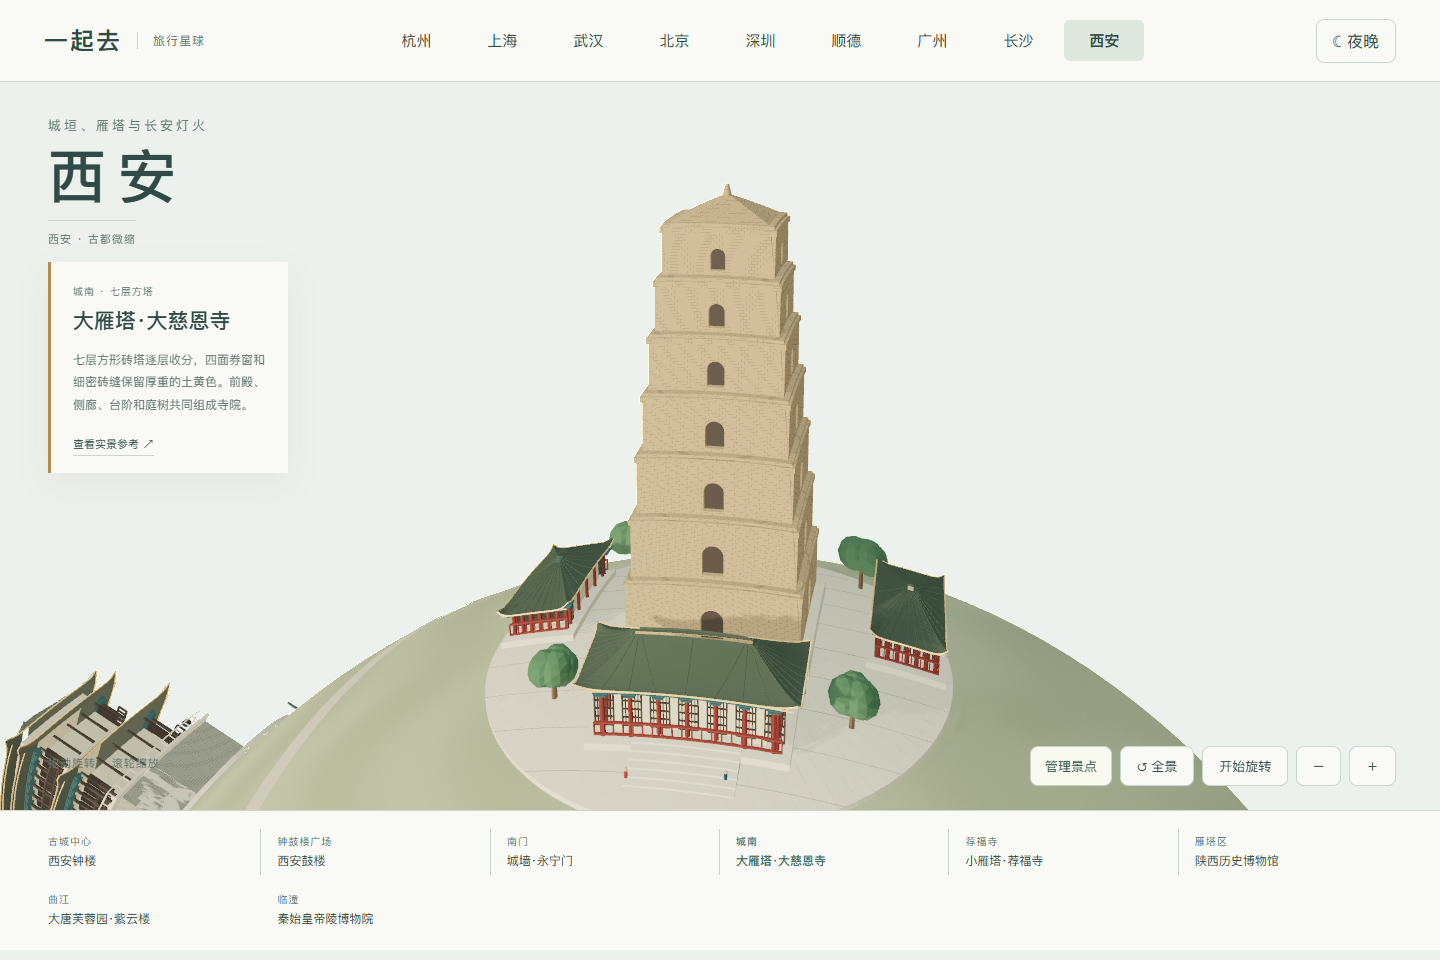
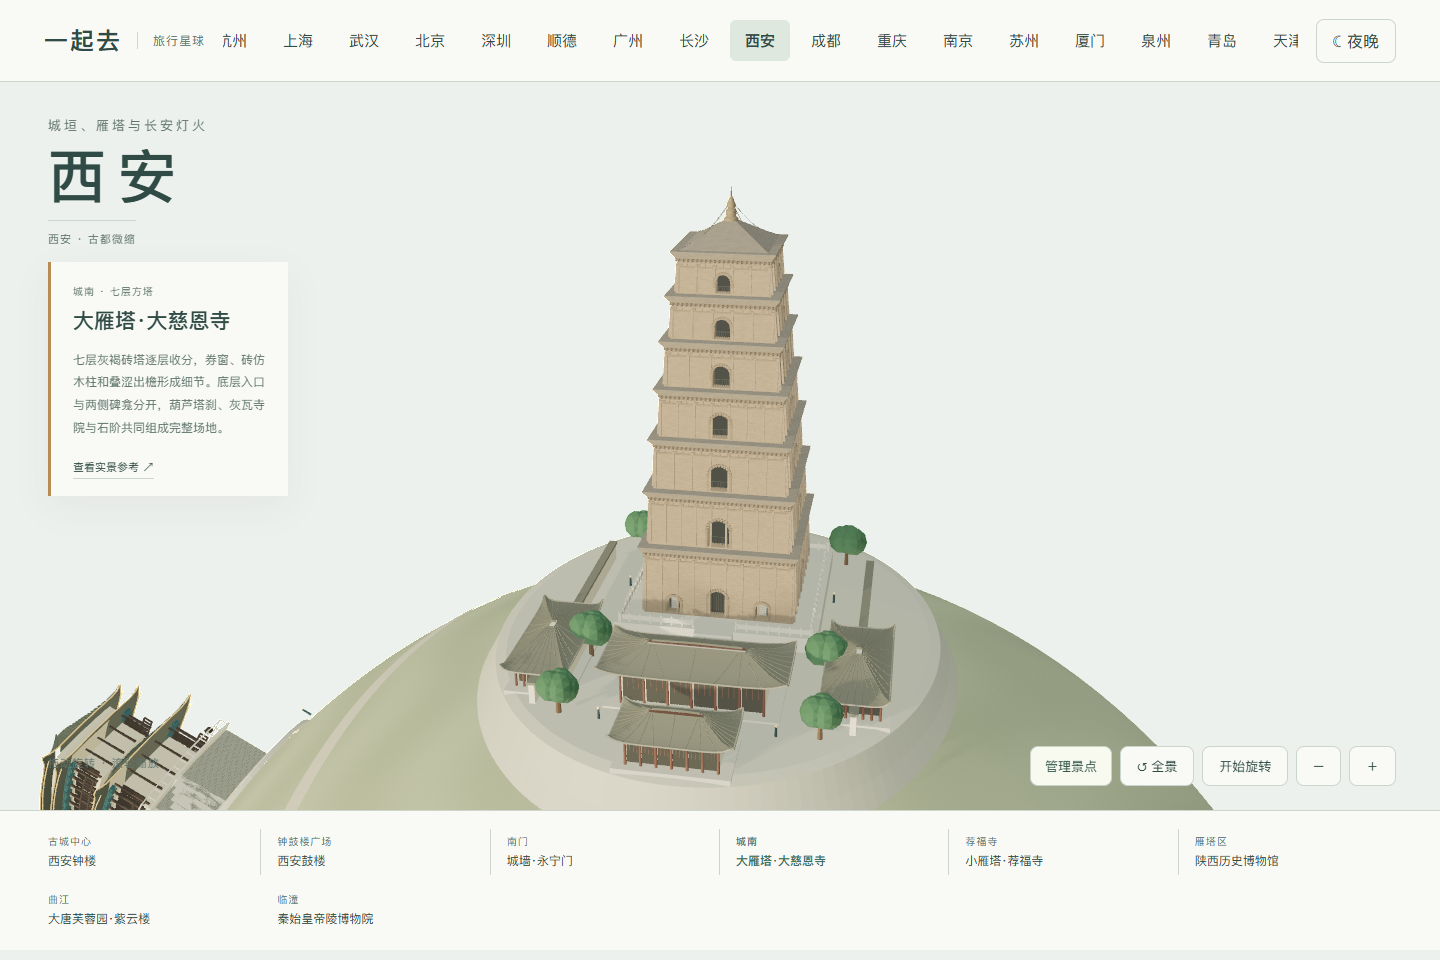
Refine Wild Goose Pagoda brickwork and preserve cloned night colors

diff --git a/web/xian-pagoda.js b/web/xian-pagoda.js
@@ -1,0 +1,113 @@
+import * as THREE from 'three';
+import {roof,tree} from './wuhan-architecture.js';
+import {bollards,people} from './shenzhen-forms.js';
+
+function brick(k,color){
+ const m=k.mat(color,.97,.02);m.onBeforeCompile=s=>{
+  s.vertexShader='varying vec3 pagodaBrick;\n'+s.vertexShader.replace('#include <begin_vertex>','#include <begin_vertex>\npagodaBrick=position;');
+  s.fragmentShader='varying vec3 pagodaBrick;\n'+s.fragmentShader.replace('#include <color_fragment>',`#include <color_fragment>
+   float row=floor(pagodaBrick.y*210.0);
+   vec2 cell=vec2((pagodaBrick.x+pagodaBrick.z)*85.0+mod(row,2.0)*.5,pagodaBrick.y*210.0);
+   vec2 uv=fract(cell), fw=max(fwidth(cell),vec2(.01));
+   float mortar=max(1.0-smoothstep(.035,.035+fw.y,uv.y),1.0-smoothstep(.025,.025+fw.x,uv.x));
+   float random=fract(sin(dot(floor(cell),vec2(127.1,311.7)))*43758.5453);
+   float weather=.5+.5*sin(pagodaBrick.x*22.0+pagodaBrick.z*11.0+sin(pagodaBrick.y*38.0));
+   float low=1.0-smoothstep(.08,.23,pagodaBrick.y+weather*.05);
+   diffuseColor.rgb*=mix(.94,1.02,random)*(1.0-.045*mortar);
+   diffuseColor.rgb=mix(diffuseColor.rgb,diffuseColor.rgb*vec3(.63,.69,.71),low*.65);`);
+ };m.customProgramCacheKey=()=> 'dayanta-brick-201';return m;
+}
+function foundation(k,g,m,w,d,top,x=0,z=0){
+ const geo=new THREE.BoxGeometry(w,top+.16,d,12,1,12),p=geo.attributes.position;
+ for(let i=0;i<p.count;i++){const xx=p.getX(i)+x,zz=p.getZ(i)+z;p.setXYZ(i,xx,p.getY(i)>0?top:Math.sqrt(Math.max(.001,2.15**2-xx*xx-zz*zz))-2.15,zz);}
+ geo.computeVertexNormals();k.mesh(g,geo,m);
+}
+function arch(k,g,p,x,y,z,r,spring,bottom,grille=false){
+ // Actual recessed openings, with masonry jambs and radial arch bricks.
+ k.box(g,r*2.04,spring+r-bottom,.005,p.dark,x,y+bottom+(spring+r-bottom)/2,z-.030);
+ for(let n=0;n<13;n++){const a=n/12*Math.PI,b=k.box(g,.006,.008,.005,p.arch,x+Math.cos(a)*(r+.004),y+spring+Math.sin(a)*(r+.004),z+.002);b.rotation.z=a-Math.PI/2;}
+ for(const sign of [-1,1])k.box(g,.007,spring-bottom,.006,p.arch,x+sign*(r+.004),y+(spring+bottom)/2,z+.001);
+ const gh=grille?spring+r*.65:spring*.43;
+ for(let j=-3;j<=3;j++)k.box(g,.0012,gh,.002,p.metal,x+j*r*.26,y+bottom+gh/2,z-.019);
+ k.box(g,r*1.82,.002,.002,p.metal,x,y+bottom+gh,z-.019);
+}
+function storey(k,g,p,{w,h,y,bays,ground=false}){
+ const top=w-.016;
+ for(let side=0;side<4;side++){
+  const f=new THREE.Group();f.rotation.y=side*Math.PI/2;g.add(f);
+  const shape=new THREE.Shape();shape.moveTo(-w/2,0);shape.lineTo(w/2,0);shape.lineTo(w/2,h);shape.lineTo(-w/2,h);shape.closePath();
+  const holes=[{x:0,r:ground?.026:w*.074,spring:ground?.061:h*.42,bottom:ground?.003:.004}];
+  if(ground&&side===0)for(const s of [-1,1])holes.push({x:s*.129,r:.018,spring:.040,bottom:.008,niche:true});
+  for(const a of holes){const q=new THREE.Path();q.moveTo(a.x-a.r,a.bottom);q.lineTo(a.x-a.r,a.spring);q.absarc(a.x,a.spring,a.r,Math.PI,0,true);q.lineTo(a.x+a.r,a.bottom);q.closePath();shape.holes.push(q);}
+  const geo=new THREE.ExtrudeGeometry(shape,{depth:.028,bevelEnabled:false,curveSegments:20}),pos=geo.attributes.position;
+  for(let i=0;i<pos.count;i++){const t=pos.getY(i)/h;pos.setX(i,pos.getX(i)*(1-.016/w*t));pos.setZ(i,pos.getZ(i)-.008*t);}
+  geo.computeVertexNormals();k.mesh(f,geo,p.brick,0,y,w/2-.028);
+  for(const a of holes){arch(k,f,p,a.x,y,w/2,a.r,a.spring,a.bottom,ground&&!a.niche);if(a.niche){k.box(f,.022,.040,.004,p.stele,a.x,y+.031,w/2-.019);for(let j=0;j<5;j++)k.box(f,.015,.0006,.0005,p.carving,a.x,y+.018+j*.006,w/2-.0165);}}
+  for(let j=0;j<=bays;j++){
+   const x=(j/bays-.5)*(w-.014),pillar=k.box(f,.0055,h-.012,.006,p.pilaster,x,y+h/2-.002,w/2-.001);
+   pillar.rotation.x=-Math.atan2(.008,h);
+   k.box(f,.011,.005,.010,p.arch,x*(top/w),y+h-.008,top/2+.002);
+  }
+  k.box(f,top,.004,.008,p.arch,0,y+h-.015,top/2);
+  k.box(f,top,.003,.008,p.pilaster,0,y+h-.004,top/2);
+  for(let j=0;j<bays;j++)k.box(f,.0025,.008,.007,p.arch,((j+.5)/bays-.5)*top,y+h-.008,top/2+.001);
+ }
+ // Two small diagonal brick tooth bands, below stepped corbelled eaves.
+ for(let side=0;side<4;side++){
+  const f=new THREE.Group();f.rotation.y=side*Math.PI/2;g.add(f);const n=Math.ceil(top/.012);
+  for(let row=0;row<2;row++)for(let j=0;j<n;j++){const tooth=k.box(f,.006,.003,.006,p.arch,((j+.5)/n-.5)*(top+.010),y+h+.002+row*.005,top/2+.006);tooth.rotation.y=Math.PI/4;}
+ }
+ for(let j=0;j<6;j++){const ww=top+.016+j*.0048;k.box(g,ww,.0038,ww,j%2?p.eave:p.arch,0,y+h+.011+j*.0033,0);}
+}
+function temple(k,g,p,{x=0,z,w,d,h,y=.018}){
+ const a=new THREE.Group();a.position.set(x,y,z);g.add(a);
+ foundation(k,g,p.paving,w+.035,d+.035,y,x,z);
+ k.box(a,w*.88,h,d*.77,p.wall,0,h/2,0);
+ for(const s of [-1,1]){
+  for(let j=0;j<7;j++){const xx=(j/6-.5)*w*.88;k.cyl(a,.003,.004,h,p.red,xx,h/2,s*d*.46,8);if(j<6){k.box(a,w*.13,h*.76,.003,p.door,xx+w*.073,h*.40,s*d*.39);for(let n=0;n<3;n++)k.box(a,.001,h*.35,.003,p.red,xx+w*(.04+n*.035),h*.57,s*d*.40);}}
+  k.box(a,w,.009,.014,p.red,0,h-.005,s*d*.46);
+ }
+ roof(k,a,w*1.17,d*1.28,.047,h+.001,p.tile,p.ridge);
+ k.box(a,w*.86,.0015,.003,p.warm,0,h-.008,d*.49);
+}
+export function pagoda(k){
+ const firstMaterial=k.materials.length,g=new THREE.Group(),p={brick:brick(k,'#a18e76'),pilaster:brick(k,'#a18f79'),arch:brick(k,'#95846e'),eave:brick(k,'#8e8678'),dark:k.mat('#33352f'),metal:k.mat('#4a4b42'),stele:k.mat('#959387'),carving:k.mat('#77786d'),paving:k.mat('#bdb9a8'),wall:k.mat('#d4cbb4'),red:k.mat('#805c4b'),door:k.mat('#4d4b3e'),tile:k.mat('#7f7d6c'),ridge:k.mat('#999583'),warm:k.mat('#dac39b'),finial:k.mat('#95846a')};
+ for(const [name,m]of Object.entries(p)){m.userData.pagodaRigid=true;m.userData.night={color:new THREE.Color('#efc58b'),intensity:name==='warm'?.50:name==='brick'||name==='pilaster'?.16:name==='eave'?.10:.06};}
+ const paving=k.mat('#bcb9a6'),vertices=[],indices=[],N=128,rings=24;
+ for(let j=0;j<=rings;j++)for(let i=0;i<=N;i++){const r=j/rings,a=i/N*Math.PI*2,x=.70*r*Math.cos(a),z=.80*r*Math.sin(a),t=THREE.MathUtils.smoothstep(r,.90,1),sag=2.15-Math.sqrt(Math.max(.001,2.15**2-x*x-z*z));vertices.push(x,.012-sag*t,z);}
+ for(let j=0;j<rings;j++)for(let i=0;i<N;i++){const a=j*(N+1)+i,b=a+N+1;if(j)indices.push(a,a+1,b);indices.push(a+1,b+1,b);}
+ const land=new THREE.BufferGeometry();land.setAttribute('position',new THREE.Float32BufferAttribute(vertices,3));land.setIndex(indices);land.computeVertexNormals();k.mesh(g,land,paving);
+ const tower=new THREE.Group();tower.position.z=-.18;g.add(tower);
+ foundation(k,g,p.paving,.59,.57,.058,0,-.18);
+ let y=.063;const heights=[.185,.137,.122,.112,.102,.092,.086];
+ for(let i=0;i<7;i++){storey(k,tower,p,{w:.44-i*.030,h:heights[i],y,bays:i<2?9:i<4?7:5,ground:i===0});y+=heights[i]+.031;}
+ const cap=k.cyl(tower,.018,.174,.066,p.eave,0,y+.029,0,4);cap.rotation.y=Math.PI/4;
+ // Curving gourd finial above the square brick cap, sized from the photograph.
+ const profile=[[0,0],[.021,0],[.019,.007],[.013,.012],[.015,.019],[.014,.027],[.009,.032],[.013,.038],[.012,.045],[.008,.052],[.007,.059],[.003,.064],[0,.067]].map(([r,h])=>new THREE.Vector2(r,h));
+ k.mesh(tower,new THREE.LatheGeometry(profile,32),p.finial,0,y+.060,0);k.cyl(tower,.0007,.0015,.026,p.metal,0,y+.137,0,8);
+ for(const sx of [-1,1])for(const sz of [-1,1]){k.line(tower,[[sx*.115,y+.002,sz*.115],[sx*.060,y+.035,sz*.060],[0,y+.112,0]],.00045,p.metal);k.cyl(tower,.002,.003,.007,p.metal,sx*.124,y-.005,sz*.124,8);}
+ // The south terrace has a central stair gap, with a low stone balustrade.
+ for(let side=0;side<4;side++){
+  const f=new THREE.Group();f.position.z=-.18;f.rotation.y=side*Math.PI/2;g.add(f);
+  for(let j=0;j<=18;j++){const x=(j/18-.5)*.56;if(side===0&&Math.abs(x)<.055)continue;k.box(f,.005,.029,.005,p.paving,x,.0725,.275);if(j<18&&!(side===0&&Math.abs(x+.0155)<.060))k.box(f,.027,.015,.003,p.paving,x+.0155,.073,.275);}
+ }
+ for(let i=0;i<6;i++){const z=.232-i*.023,top=.013+(i+1)*.0075;foundation(k,g,p.paving,.11,.025,top,0,z);}
+ temple(k,g,p,{z:.36,w:.43,d:.17,h:.10});temple(k,g,p,{z:.63,w:.26,d:.13,h:.075});
+ for(const x of [-.42,.42]){temple(k,g,p,{x,z:.27,w:.15,d:.30,h:.075});foundation(k,g,p.wall,.016,.85,.0675,x,.05);k.box(g,.025,.009,.85,p.tile,x,.071,.05);}
+ for(const [x,z,s]of [[-.33,.22,.10],[.33,.22,.10],[-.34,-.46,.10],[.34,-.46,.10],[-.34,.50,.09],[.34,.50,.09]])tree(k,g,x,.014,z,s);
+ bollards(k,g,[[-.23,.51],[.23,.51],[-.32,-.20],[.32,-.20]]);people(k,g,[[-.14,.51],[.12,.53],[-.14,.14]]);
+ for(const m of k.materials.slice(firstMaterial))m.userData.pagodaRigid=true;
+ const copies=new Map();g.traverse(o=>{
+  if(!o.isMesh||o.material.userData.pagodaRigid)return;
+  const original=o.material;
+  if(!copies.has(original)){
+   const copy=original.clone();copy.onBeforeCompile=original.onBeforeCompile;copy.customProgramCacheKey=original.customProgramCacheKey;
+   // Material.clone serializes userData, turning Color into a number. Keep typed lighting data.
+   copy.userData={...original.userData,pagodaRigid:true};
+   if(original.userData.night)copy.userData.night={...original.userData.night,color:original.userData.night.color.clone()};
+   k.materials.push(copy);copies.set(original,copy);
+  }
+  o.material=copies.get(original);
+ });
+ g.userData={storeys:7};return k.merge(g);
+}

diff --git a/web/xian-landmarks.js b/web/xian-landmarks.js
@@ -4,7 +4,7 @@ export const LANDMARKS=[
   {id:'bell',name:'西安钟楼',area:'古城中心 · 绿瓦红柱',x:-.89,z:.83,height:.80,distance:2.6,view:[.38,.65,1.75],description:'三重绿琉璃瓦、三开间红门与外廊、青绿金彩绘梁枋和层叠斗拱。方台保留贯通券洞、石栏与铜钟，夜间暖光照亮楼身，绿瓦和红柱保留原色。',source:'https://www.xakpw.com/single/23539'},
   {id:'drum',name:'西安鼓楼',area:'钟鼓楼广场 · 暮鼓',x:-1.12,z:-.83,height:.73,distance:2.7,view:[.30,.59,1.7],description:'宽阔的楼身、深灰瓦三重檐、正面阶梯与台基上的鼓列。按实拍区分鼓楼与钟楼的比例和木构颜色。',source:'https://www.xakpw.com/single/23806'},
   {id:'wall',name:'城墙·永宁门',area:'南门 · 瓮城与护城河',x:1.05,z:.83,height:.63,distance:3.0,view:[.36,1.0,1.7],description:'厚重城墙围合瓮城，贯通券洞、城楼、垛口、登城坡阶与护城河形成完整场地。夜间灯笼和檐下暖光勾勒城防轮廓。',source:'https://dp.pconline.com.cn/photo/5086132.html'},
-  {id:'pagoda',name:'大雁塔·大慈恩寺',area:'城南 · 七层方塔',x:1.11,z:-.85,height:1.17,distance:2.8,view:[.30,.70,1.75],description:'七层方形砖塔逐层收分，四面券窗和细密砖缝保留厚重的土黄色。前殿、侧廊、台阶和庭树共同组成寺院。',source:'https://www.hkcd.com/content_p/2013-12/09/content_1991.html'},
+  {id:'pagoda',name:'大雁塔·大慈恩寺',area:'城南 · 七层方塔',x:1.11,z:-1.00,height:1.27,distance:3.2,view:[.30,.70,1.75],description:'七层灰褐砖塔逐层收分，券窗、砖仿木柱和叠涩出檐形成细节。底层入口与两侧碑龛分开，葫芦塔刹、灰瓦寺院与石阶共同组成完整场地。',source:'https://www.hkcd.com/content_p/2013-12/09/content_1991.html'},
   {id:'smallPagoda',name:'小雁塔·荐福寺',area:'荐福寺 · 密檐古塔',x:-1.02,z:.85,hemisphere:-1,height:1.14,distance:2.7,view:[.33,.73,1.7],description:'十三层密檐、逐渐收窄的砖身与残缺塔冠，置于寺院古树之间。保持小雁塔与大雁塔不同的轮廓，不补造完整塔刹。',source:'https://media-cdn.tripadvisor.com/media/photo-o/0f/87/76/3e/small-wild-goose-pagoda.jpg'},
   {id:'museum',name:'陕西历史博物馆',area:'雁塔区 · 唐风殿堂',x:1.07,z:.85,hemisphere:-1,height:.46,distance:2.7,view:[.35,.73,1.7],description:'浅色柱廊、深灰宽檐、对称展馆与入口水院，依据张锦秋设计的现有馆舍外观制作。柱间空间、屋脊和石牌分层呈现。',source:'https://www.cscec.com/ztzl_new/mhsjd81_new/bq/201812/2899627.html'},
   {id:'furong',name:'大唐芙蓉园·紫云楼',area:'曲江 · 临水唐风园林',x:-1.10,z:-.88,hemisphere:-1,height:.72,distance:3.0,view:[.45,1.0,1.6],description:'紫云楼、侧亭、台阶与临水广场面向芙蓉湖。夜间以暖金檐光衬托深色屋顶和水面；这是现代仿唐园林的缩微表达。',source:'https://dp.pconline.com.cn/photo/list_4848079.html'},

diff --git a/web/xian-towers.js b/web/xian-towers.js
@@ -23,15 +23,8 @@ function pagodaStorey(k,g,p,w,top,h,y,door=true){
   }
   k.box(g,top+.026,.013,top+.026,p.brick,0,y+h+.006,0);k.box(g,top+.014,.008,top+.014,p.brick,0,y+h+.016,0);
 }
-export function pagoda(k){
-  const g=new THREE.Group(),p=colors(k);terrace(k,g,p,.60,.64);const base=.057;k.box(g,.49,.04,.49,p.light,0,.034,-.10);
-  const tower=new THREE.Group();tower.position.z=-.10;let y=base;
-  for(let i=0;i<7;i++){const w=.44-i*.030,h=.15-i*.009;pagodaStorey(k,tower,p,w,w-.020,h,y);y+=h+.024;}
-  const cap=k.cyl(tower,.018,.16,.044,p.brick,0,y+.018,0,4);cap.rotation.y=Math.PI/4;k.cyl(tower,.004,.012,.030,p.brick,0,y+.052,0,12);g.add(tower);
-  hall(k,g,p,{w:.43,d:.18,z:.35,h:.13});for(const x of [-.48,.48]){hall(k,g,p,{x,z:-.17,w:.16,d:.40,h:.08,roofHeight:.045});}
-  steps(k,g,p,.25,.13,.035,0,.54,7);groves(k,g,[[-.36,.28,.10],[.36,.28,.10],[-.34,-.45,.12],[.34,-.45,.12]]);
-  g.userData={storeys:7};return finish(k,g,p,{lamps:[[-.22,-.3],[.22,-.3],[-.24,.20],[.24,.20]],visitors:[[-.12,.53],[.10,.51],[-.18,.17]]});
-}
+export {pagoda} from './xian-pagoda.js';
+
 export function smallPagoda(k){
   const g=new THREE.Group(),p=colors(k);p.brick=masonry(k,'#a39b80');terrace(k,g,p,.54,.57);
   let y=.035;for(let i=0;i<13;i++){const t=i/12,w=.31*(1-.49*t),h=i===0?.16:.067-.028*t;pagodaStorey(k,g,p,w,w-.012,h,y,i<11);y+=h+.022;}

diff --git a/web/xian-scene.js b/web/xian-scene.js
@@ -14,7 +14,7 @@ export function createXianScene(){
     model.traverse(o=>{
       if(!o.isMesh)return;o.userData.landmark=item.id;o.castShadow=true;o.receiveShadow=true;o.material.envMapIntensity=.30;
       const old=o.geometry;o.geometry=new TessellateModifier(.055,7).modify(old);old.dispose();const a=o.geometry.attributes.position,n=o.geometry.attributes.normal;
-      for(let i=0;i<a.count;i++){const x=a.getX(i),z=a.getZ(i);a.setY(i,a.getY(i)-sag(x,z));if(o.material.userData.preserveSmooth){const ny=n.getY(i),r=Math.sqrt(Math.max(.001,RADIUS*RADIUS-x*x-z*z)),nx=n.getX(i)+x/r*ny,nz=n.getZ(i)+z/r*ny,len=Math.hypot(nx,ny,nz);n.setXYZ(i,nx/len,ny/len,nz/len);}}
+      if(!o.material.userData.pagodaRigid)for(let i=0;i<a.count;i++){const x=a.getX(i),z=a.getZ(i);a.setY(i,a.getY(i)-sag(x,z));if(o.material.userData.preserveSmooth){const ny=n.getY(i),r=Math.sqrt(Math.max(.001,RADIUS*RADIUS-x*x-z*z)),nx=n.getX(i)+x/r*ny,nz=n.getZ(i)+z/r*ny,len=Math.hypot(nx,ny,nz);n.setXYZ(i,nx/len,ny/len,nz/len);}}
       a.needsUpdate=true;if(o.material.userData.preserveSmooth)n.needsUpdate=true;else o.geometry.computeVertexNormals();
       if(!o.material.userData.night)o.material.userData.night={color:o.material.color.clone(),intensity:.045};
     });

diff --git a/README.md b/README.md
@@ -1,6 +1,6 @@
 # 一起去 · Travel Planet
 
-用可旋转的 3D 城市星球发现景点，再和朋友一起决定怎么旅行。当前版本 **0.55.20**，支持桌面和手机网页。
+用可旋转的 3D 城市星球发现景点，再和朋友一起决定怎么旅行。当前版本 **0.55.22**，支持桌面和手机网页。
 
 **[上海旅行 · 在线体验](https://43.139.249.151/travel/shanghai-trip.html)** · **[杭州旅行](https://43.139.249.151/travel/)** · **[武汉旅行](https://43.139.249.151/travel/wuhan-trip.html)** · **[武汉纯地图](https://43.139.249.151/travel/wuhan.html)** · **[上海纯地图](https://43.139.249.151/travel/shanghai.html)** · **[北京地图](https://43.139.249.151/travel/beijing.html)** · **[深圳地图](https://43.139.249.151/travel/shenzhen.html)** · **[顺德地图](https://43.139.249.151/travel/shunde.html)** · **[广州地图](https://43.139.249.151/travel/guangzhou.html)** · **[长沙地图](https://43.139.249.151/travel/changsha.html)** · **[西安地图](https://43.139.249.151/travel/xian.html)** · **[成都地图](https://43.139.249.151/travel/chengdu.html)** · **[重庆地图](https://43.139.249.151/travel/chongqing.html)** · **[南京地图](https://43.139.249.151/travel/nanjing.html)** · **[苏州地图](https://43.139.249.151/travel/suzhou.html)** · **[厦门地图](https://43.139.249.151/travel/xiamen.html)** · **[泉州地图](https://43.139.249.151/travel/quanzhou.html)** · **[青岛地图](https://43.139.249.151/travel/qingdao.html)** · **[天津地图](https://43.139.249.151/travel/tianjin.html)** · **[大理地图](https://43.139.249.151/travel/dali.html)** · **[桂林地图](https://43.139.249.151/travel/guilin.html)** · **[三亚地图](https://43.139.249.151/travel/sanya.html)** · **[香港地图](https://43.139.249.151/travel/hongkong.html)** · **[澳门地图](https://43.139.249.151/travel/macau.html)**
 
@@ -31,7 +31,7 @@
 
 长沙包含 **10 组具名地标**：岳麓书院、爱晚亭、杜甫江阁、天心阁、湖南博物院、梅溪湖艺术中心、谢子龙影像艺术馆、国金中心双塔、橘子洲大桥和青年毛泽东艺术雕塑。杜甫江阁补齐深灰瓦歇山顶、红柱白回廊、双向台阶与两侧游廊小亭，夜间以暖金屋面与窗灯分层。雕塑包含横向肩部、立体面部与侧扬发束，洲头草坪和环形步道置于两侧水道之间；两岸建筑已避让扩展后的河道。梅溪湖按四瓣大剧场、三瓣艺术馆和单瓣小剧场分出轮廓与翻卷屋盖。包含连续山地、山林、跨江低拱与环形匝道、两岸步道和湘江洲地、双半球布局、日夜、自由旋转、手机与整组管理；长沙尚未接入多人旅行。详见 [长沙造型参考](docs/CHANGSHA_REFERENCES.md)。
 
-西安新增 **8 组具名地标**：钟楼、鼓楼、永宁门城墙、大雁塔与大慈恩寺、小雁塔与荐福寺、陕西历史博物馆、大唐芙蓉园紫云楼、秦始皇帝陵博物院。钟楼补齐三开间红门与外廊、青绿金彩绘、层叠斗拱、细密绿瓦、铜钟与石栏；保留贯通券洞、砖塔收分、柱廊、临水园林和保护展馆大跨度拱壳，提供双半球布局、日夜、逐景近看、手机触控和整组管理。西安当前为景观地图，未接入多人旅行。详见 [西安实拍参考](docs/XIAN_REFERENCES.md)。
+西安新增 **8 组具名地标**：钟楼、鼓楼、永宁门城墙、大雁塔与大慈恩寺、小雁塔与荐福寺、陕西历史博物馆、大唐芙蓉园紫云楼、秦始皇帝陵博物院。钟楼补齐三开间红门与外廊、青绿金彩绘、层叠斗拱、细密绿瓦、铜钟与石栏；大雁塔补齐七层券窗、砖仿木柱、叠涩檐带、底层碑龛、葫芦塔刹及灰瓦寺院；保留贯通券洞、砖塔收分、柱廊、临水园林和保护展馆大跨度拱壳，提供双半球布局、日夜、逐景近看、手机触控和整组管理。西安当前为景观地图，未接入多人旅行。详见 [西安实拍参考](docs/XIAN_REFERENCES.md)。
 
 成都新增 **8 组具名地标**：武侯祠汉昭烈庙入口、杜甫草堂茅屋故居、安顺廊桥、IFS 爬墙熊猫、熊猫基地熊猫塔、天府美术馆、金沙遗址博物馆陈列馆、东安湖主体育场。区分茅草、木构、铜色外肋、花瓣曲面与玻璃幕墙；日夜保留建筑原色，体育场屋面和商业街有缓慢灯光变化。提供双半球、自由旋转、手机触控与整组管理；成都尚未接入多人旅行。[查看实拍参考](docs/CHENGDU_REFERENCES.md)。
 

diff --git a/docs/XIAN_REFERENCES.md b/docs/XIAN_REFERENCES.md
@@ -7,7 +7,7 @@
 | 西安钟楼 | [日景](https://dimg04.c-ctrip.com/images/0105612000eyu4qtrE774_W_750_0.jpg)、[夜景](https://dimg04.c-ctrip.com/images/1mh6412000ilotsxnCCAD_W_640_10000.jpg?proc=autoorient)：三重绿瓦、红柱彩画、方形石台、四向贯通券洞、白栏与铜钟；夜间绿瓦和暖金楼身分层。 |
 | 西安鼓楼 | [西安科普网实拍](https://www.xakpw.com/single/23806)：宽楼身、深灰瓦、三重檐、台阶与鼓列，避免仅复制钟楼。 |
 | 城墙·永宁门 | [摄影者实拍](https://dp.pconline.com.cn/photo/5086132.html)：城楼、贯通券洞、围合瓮城、垛口、登城台阶和护城河。 |
-| 大雁塔·大慈恩寺 | [香港商报实拍](https://www.hkcd.com/content_p/2013-12/09/content_1991.html)：七层土黄砖塔、逐层收分、四面券窗与低矮塔顶，搭配前殿、侧廊和庭树。初稿过细且塔顶翘檐不符，已加宽并改正。 |
+| 大雁塔·大慈恩寺 | [香港商报实拍](https://www.hkcd.com/content_p/2013-12/09/content_1991.html)：七层灰褐砖塔、逐层收分、四面券窗、砖仿木柱与低矮方顶，搭配前殿、侧廊和庭树；详细实拍与本次修正见下方 0.55.22 记录。 |
 | 小雁塔·荐福寺 | [游客实拍](https://media-cdn.tripadvisor.com/media/photo-o/0f/87/76/3e/small-wild-goose-pagoda.jpg)：十三层密檐、较低层高、残缺塔冠与寺院庭树，不补造完整塔刹。 |
 | 陕西历史博物馆 | [中国建筑资料和实拍](https://www.cscec.com/ztzl_new/mhsjd81_new/bq/201812/2899627.html)：浅色柱廊、深灰宽屋顶、对称展馆、入口水院和石牌，按现有馆舍外观缩微。 |
 | 大唐芙蓉园·紫云楼 | [园区日景实拍](https://dp.pconline.com.cn/photo/list_4848079.html)：重檐主楼、侧亭、临水台阶与前庭；[园区夜间照片](https://www.ourchinastory.com/zh/2897)仅用于暖金檐光和暗水面的色彩参考，未把照片里的另一座塔当作紫云楼。 |
@@ -33,3 +33,16 @@
 彩画与雕刻为缩微概括，不宣称逐幅复刻。券洞展示建筑结构，现实通行以管理方为准；未据历史资料虚构当前门票或开放状态。原八组位置、其他城市与多人旅行数据不变。
 
 ![钟楼侧向木构](images/xian-bell-oblique.png)
+
+
+## 0.55.22 大雁塔砖构与寺院精修
+
+对照[《大雁塔——犹存的盛唐》中的现塔实拍](https://m.thepaper.cn/newsDetail_forward_24621530)，直接核看底层入口与碑龛、上层券窗、砖檐近照、葫芦塔刹及寺院航拍；[西安地方志资料](https://xadfz.xa.gov.cn/xadq/rwxa/1802954373708996609.html)用于核对七层与 64.5 米形制。文章中的历史木塔复原和佛光寺构造示意没有当作现塔造型依据。
+
+七层砖塔使用逐层收分、分层倚柱、深券窗和叠涩檐带，底层南门与两侧碑龛分开。砖色改为灰褐，塔顶保留低方顶、葫芦刹和细拉索。院落补灰瓦殿堂、侧廊、石栏与连续入塔台阶，建筑保持水平刚性，周边场地衔接球面。扩宽后调整本组位置，避免挤近永宁门。
+
+寺院院落和雕刻为缩微概括，夜间暖光为场景表达，未声称完整测绘或复刻现实夜游灯光。复制庭树材质时保留颜色对象，修复切换夜景导致树木变黑与画面异常的问题。日夜正侧背、320/390 宽度与整组恢复均已实际核验；手机仍为浏览器模拟。
+
+![大雁塔砖构近景](images/xian-pagoda-oblique.png)
+
+![大雁塔夜景](images/xian-pagoda-night.png)
